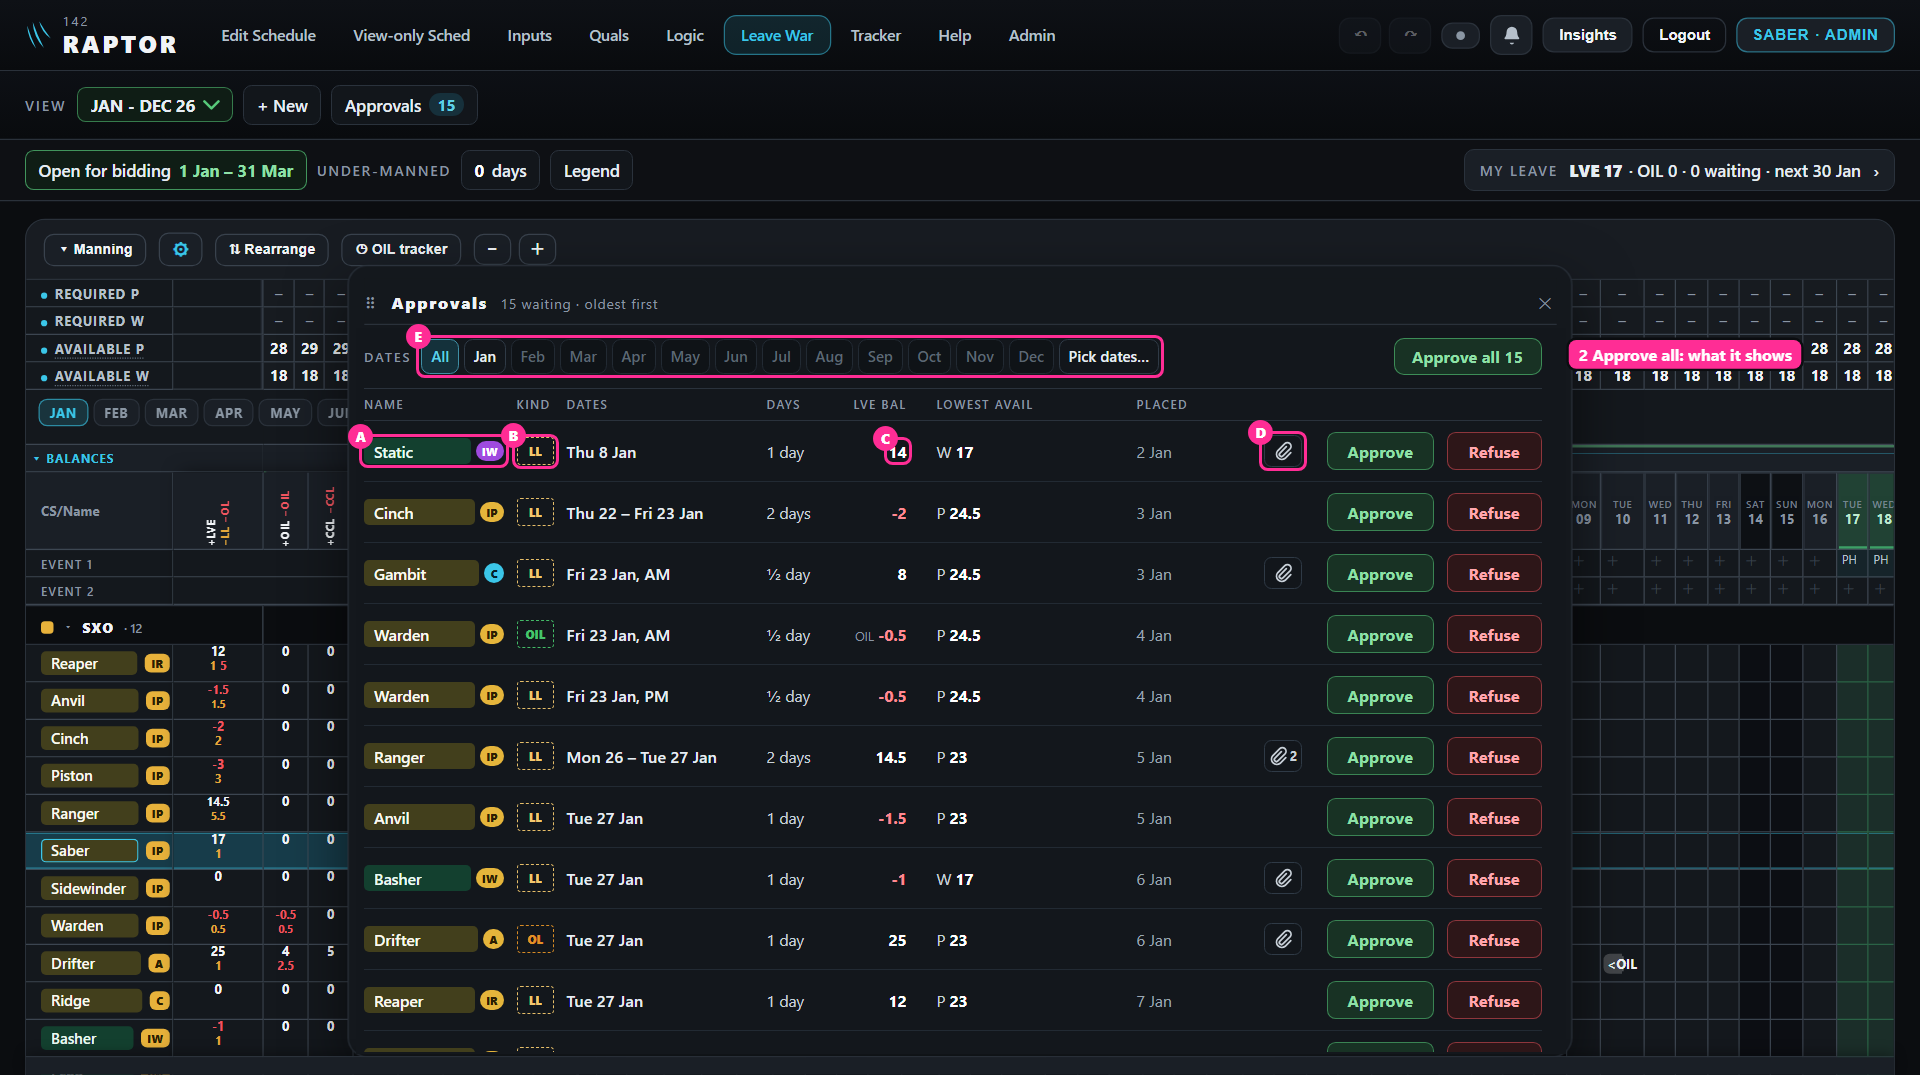
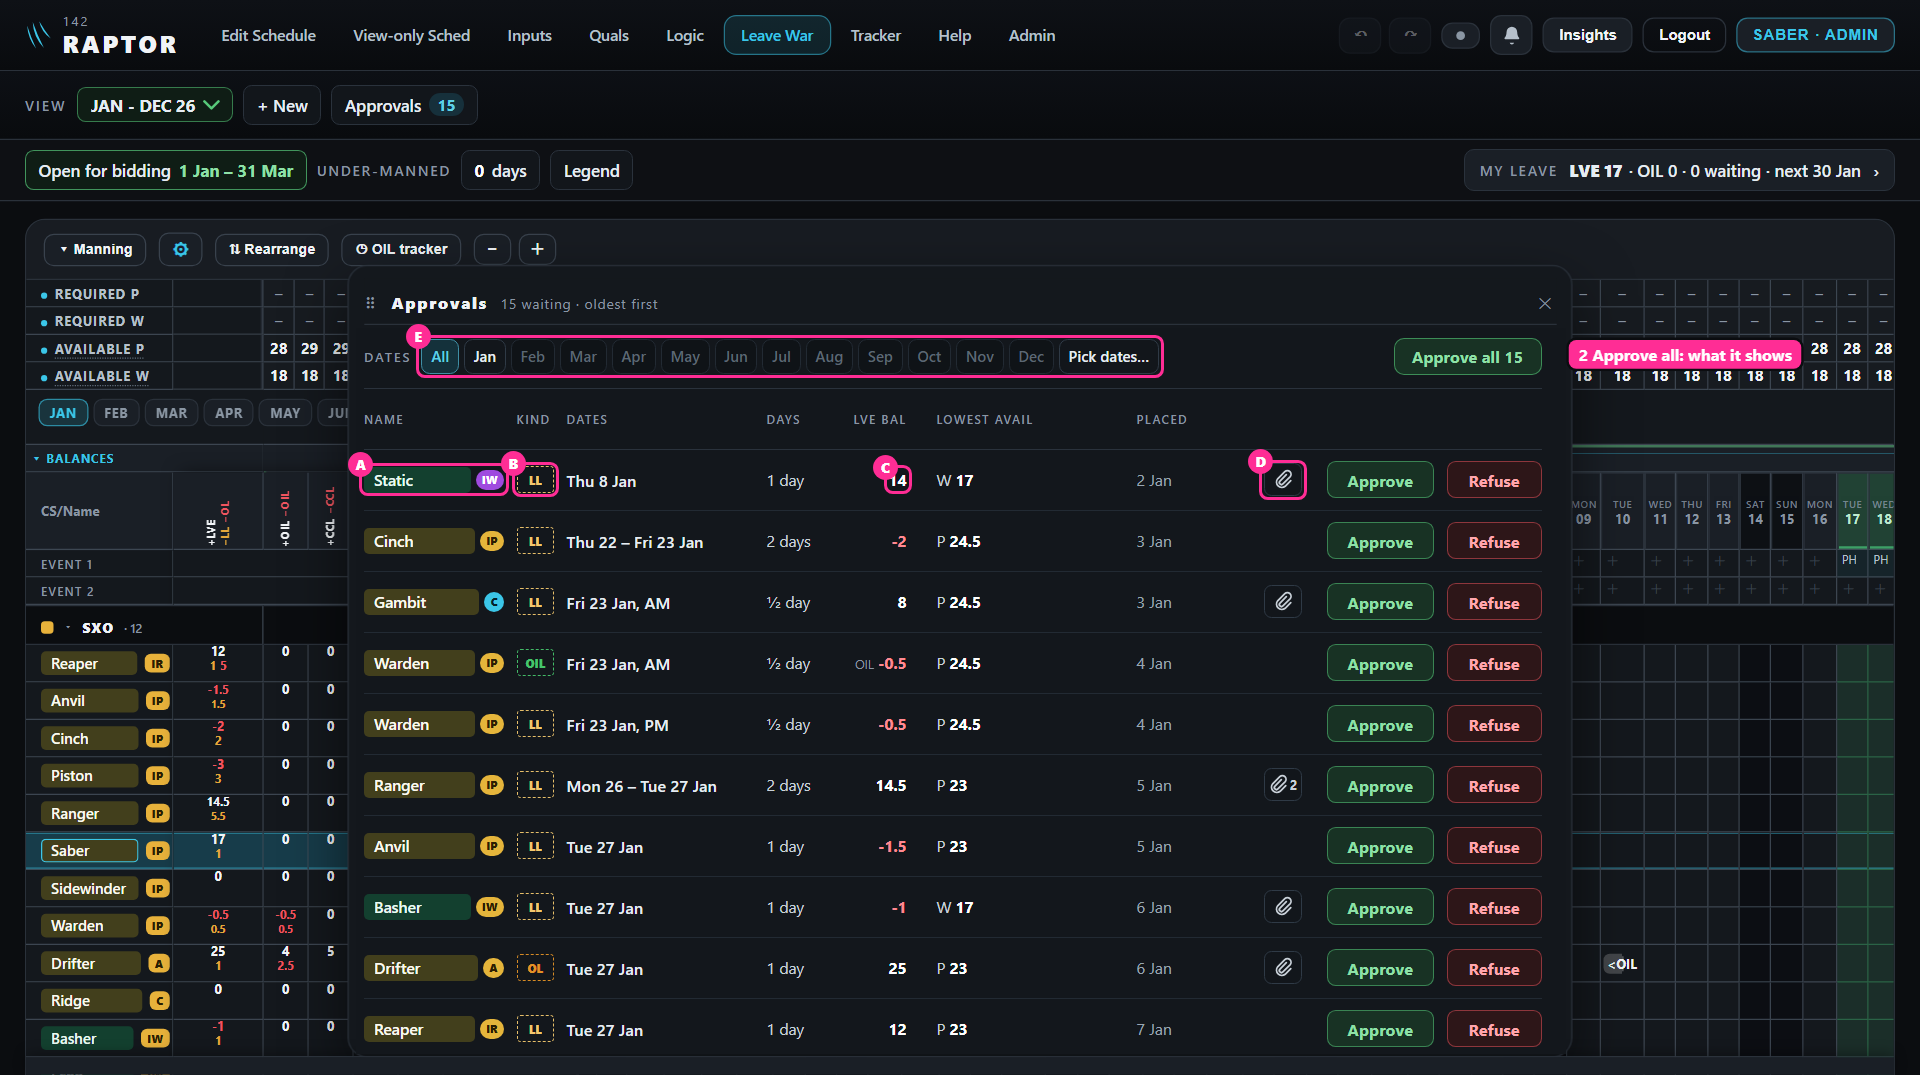
Leave War overhaul: every amber or red Manning row stacked in Lowest Avail (D1192) and the Required / Available pairs tinted (D1194) drawn; the page's version 28; the handoff rewritten at a clean point

diff --git a/raptor-port/docs/mock/lw-overhaul/full-page.html b/raptor-port/docs/mock/lw-overhaul/full-page.html
@@ -121,7 +121,8 @@ a{color:var(--accent)}
       <p><b>Your points, drawn:</b> each request shows the person's own puck (pilot or WSO by colour, his CAT, a SANS man's purple edge) and its kind as the grid's coloured box; "LVE Bal" in place of "LVE after"; a document icon where one is attached, tap to review it; the dates are every month of the period you are viewing (Jan to Dec), months with nothing waiting greyed. And on the Inputs page the type filter can pick "All leave" or "All medical", so one list shows who has not attached his document.</p>
       <p class="note"><b>Your question: is "lowest Avail P" taken at the time he applied, and are they in order of application?</b> It is live, not frozen: the lowest figure on that request's days as the grid stands now. Every request not refused is already counted (a request lowers manning the moment it is placed), so it shows the day as it would be if everything waiting were approved. Approving changes nothing; refusing gives the man back. One correction to my first drawing: a WSO's request now shows "lowest Avail W", since, as the rows stand, it never moves Avail P. A SANS man is never counted in Avail P or W (he offers his days on the SANS calendar), so his request moves neither: I recommend his line shows "SANS · not in Avail" in place of a figure. On the order: my first drawing ran by leave date even though it said "oldest first". I recommend oldest request first, the order they applied. The app does not record when a request was made yet; the overhaul adds that ("placed by Static, 2 Jan").</p>
       <p class="note"><b>Your question: will the lowest Avail P or W show amber or red, and if you rename the row, does the line follow?</b> <b>With your answers:</b> Avail P and W get an amber point, set in the row's own window as a number plus or minus that day's Required, "+ 2" for example: amber when fewer than Required + 2 are available. I've drawn red beside it as the same kind of setting, "+ 0" by default, which is today's rule (red when under Required). That way amber always comes before red; a minus amber would otherwise never show. Keep red fixed if you prefer. The line's figure wears the same colour (A red, B amber in the picture). Your Manning rows, such as IP or SXO, keep their own amber and red; where one is amber or red on the request's days, the line names it (D). Renaming follows: the line uses the row's own name and counts whoever the row counts (C).</p>
-      <div class="shots"><figure class="wide"><img src="full/r4b-availp-amber.png" alt="The Available P window with amber and red"><figcaption><span class="k n">Available P's window</span> · A amber: under Required + 2 · B red: under Required + 0, today's rule</figcaption></figure><figure class="wide"><img src="full/r4b-desk-approvals-colours.png" alt="The line's colours"><figcaption><span class="k n">The colours</span> · A red · B amber · C a renamed row · D an amber Manning row named (sample figures)</figcaption></figure></div>
+      <div class="shots"><figure class="wide"><img src="full/r4b-availp-amber.png" alt="The Available P window with amber and red"><figcaption><span class="k n">Available P's window</span> · A amber: under Required + 2 · B red: under Required + 0, today's rule</figcaption></figure><figure class="wide"><img src="full/r4b-desk-approvals-colours.png" alt="The line's colours"><figcaption><span class="k n">The colours</span> · A red · B amber · C a renamed row · D every Manning row it turns amber or red, one a line (sample figures)</figcaption></figure><figure class="wide"><img src="full/r4b-desk-pairs.png" alt="The pairs tinted, desktop"><figcaption><span class="k n">Your tint</span> · Required P and Available P olive, Required W and Available W green: the seat colours, faint</figcaption></figure><figure><img src="full/r4b-phone-pairs.png" alt="The pairs tinted, phone"><figcaption><span class="k n">Phone</span></figcaption></figure></div>
+      <p class="note"><b>Also recorded from your messages:</b> every Manning row a request turns amber or red shows in Lowest Avail, one a line (D). Required P and W can be renamed too, like the Available rows; only the name, their figures are still typed in their cells.</p>
       <ul class="opts">
         <li class="rec"><b>A · no quick-approve switch; the list's dates choose a period, and "Approve all" approves what it shows; each line coloured as above</b><span class="rec-pill">recommended</span><br>That is "approve all for a selected period". The grid's drag-select stays. A switch that makes a tap approve is easy to leave on, and then a tap meant to open a cell approves it.</li>
         <li><b>B · add the quick-approve switch</b> as well.</li>

diff --git a/HANDOFF.md b/HANDOFF.md
@@ -21,17 +21,17 @@ the later merge keeps both (D78).
 
 ## Now
 <!-- now:claude/leave-war-overhaul -->
-### 21 Oct 26 — the Leave War overhaul, rounds 2 to 4 of the full mock-up (D1140), `claude/leave-war-overhaul` (pushed, no pull request) — round 4 put and half answered (8 = A); 9 answered (D1186 on by default, D1187 title bar); waiting for 7 and 10; nothing built
-- **The page:** https://claude.ai/artifact/6xaVkA1QHg7UmevMBRFaT9 (version 22; source `raptor-port/docs/mock/lw-overhaul/full-page.html`, pictures `…/full/`). Static drawings (no app build needed; run from `raptor-port` with `NODE_PATH=C:/Users/User/projects/Raptor/raptor-port/node_modules` and `LWMOCK_OUT=<scratchpad>`, then copy the chosen pictures from `<scratchpad>/out` into `full/`): `full-cells2/3/4.mjs` (cells), `full-q5*.mjs` (question 5), and **`full-r4.mjs`** (round 4: the top redrawn over the round-2 pictures — the open-dates chip where the stages were, "View", no "Viewing as"; question 10 both ways; question 9's window with the Document button; pictures `full/r4-*.png`) and **`full-r4b.mjs`** (his round-4 points: Approvals with the puck, coloured box, LVE Bal, document icon and the period's months; the bid window with coloured leave buttons and the tick placed two ways; the Inputs list on "All leave" with "No document"; Balances as a button — pictures `full/r4b-*.png`). Edit scripts with a script file, never node -e or a heredoc with \ or ${…}.
+### 21 Oct 26 — the Leave War overhaul, rounds 2 to 4 of the full mock-up (D1140), `claude/leave-war-overhaul` (pushed, no pull request) — round 4: 8 and 9 answered, 7 and 10 waiting; nothing built
+- **The page:** https://claude.ai/artifact/6xaVkA1QHg7UmevMBRFaT9 (version 28; source `raptor-port/docs/mock/lw-overhaul/full-page.html`, pictures `…/full/`). Static drawings over the app's real pictures (no app build needed; run from `raptor-port` with `NODE_PATH=C:/Users/User/projects/Raptor/raptor-port/node_modules` and `LWMOCK_OUT=<scratchpad>`, then copy the chosen pictures from `<scratchpad>/out` into `full/`): `full-cells2/3/4.mjs`, `full-q5*.mjs`, **`full-r4.mjs`** (the top row redrawn: open-dates chip, "View", no "Viewing as"; question 10 both ways, Approvals beside "+ New" / "+" on both — D1188; pictures `full/r4-*.png`) and **`full-r4b.mjs`** (Approvals in columns with puck, coloured box, LVE Bal, lowest Avail, placed, document; its colours; the bid window with coloured buttons and the tick in the title bar; the Inputs list on "All leave"; Balances as a button; the Available P window's amber / red settings; the Required / Available pairs tinted — pictures `full/r4b-*.png`; regenerate `full-r4.mjs` first, `full-r4b.mjs` reads its pictures). Edit scripts with a script file or the Edit tool, never node -e or a heredoc holding \\ or ${…}.
 - **His rulings this chat (all homed in the note's §5, D201 sweeps done):** D1157 year grid stays · D1158 Ack goes (narrows D331) · D1159 the one Document button (lesson 20) · D1160 rows keep their height, a whole day fills its cell, a half its half (narrows D1145; lesson 19) · D1161 all-green is boring (lesson 21; answered by D1165) · D1162 OD = overseas duty · D1163 Gryphon's SC not taken · D1164 HO drawn in a half (narrows D1160) · D1165 Q2 = E, a colour per kind of leave, his colours to confirm (LL / OL two ambers, OIL green; course lilac) · D1166 Q6 = B in his words: locks stop only bidding on the war, the Inputs page is never locked, after closing a member edits his leave there after verbal approval (narrows D1156; P6 struck) · D1167 4b = A, two whole-day entries side by side (narrows D1146; he chose it over the agent's C — three letters cramped on a phone, to check at the build) · D1177 Q5 = open: the stages go, the "Open for bidding" window the one switch (replaces D1156; narrows D1166, D418, D333, D352, D827, D679, D1141, D413) · D1176 the closed note says "seek management's approval" · D1175 Q2 confirmed: look F as drawn · D1173 the "Viewing as" chip goes (replaces D365, narrows D678) · D1174 the period picker labelled "View", phone too · D1172 a calendar icon on each open stretch, not a pencil (D1170–D1171 belong to another branch) · D1169 hold and drag across the month buttons opens every month passed over · D1168 the "Open for bidding" window gets month quick-buttons, a tap opens or closes a whole month, exact days behind the pencil (lesson 22). Fresh Opus reads: lessons 19–21 and their lines read and fixed; lesson 22 and D1167–D1168 read too, its marks taken (closing a month by a second tap, and the buttons inside the window, marked as the agent's readings). **Owed:** one fresh Opus read of the short lines and full rows of D1169, D1172–D1177 and the narrowed lines of D418, D333, D352, D827, D679, D1141, D1166, D413 (D138, D941 — no new lesson among them).
-- **The owed fresh Opus read is DONE (21 Oct 26)** — the short lines and full rows of D1169, D1172–D1177 and the narrowed D418, D333, D352, D827, D679, D1141, D1166, D413; its 11 marks taken (commit "the fresh Opus read of round 3's rulings"): D678 and D679 narrowed by D1177 (D679 by D1173, D1174 too); D1173's reason corrected (on a phone the name badge is hidden — the menu's "Signed in as" line; told to him on the page); D1141 marked by D1173; D418 with no published war; D413 ends "the admin texts the squadron"; D1176's trigger (any day not open) marked as the agent's; D1168, D1166, D333, D352 restated; D1177's readings gain the moved mark and remarks at any time; the two §Settled entries that read the stage marked.
-- **His round-4 rulings so far (21 Oct 26, all homed in the note's §5; a fresh Opus read of D1178–D1182 taken — the Avail P answer corrected: each line shows the requester's own seat's figure, and the list's order is oldest request first once "when placed" is stored):** D1178 a document icon on an Approvals line · D1179 the Inputs filter picks a whole family (all leave, all medical) — "No document" recommended with it · D1180 Approvals shows the person's puck and the kind's coloured box (lesson 23) · D1181 "LVE Bal" · D1182 "Approve what I enter" placed in line (lesson 24) · D1183 the bid windows' leave buttons in look F's colours · D1184 the Approvals dates cover the whole period on view · D1185 question 8 = A, Balances drawn as a button (lesson 25). **A second fresh Opus read (D1182 as revised, D1183–D1185, lessons 24–25, the page's Avail P answer) is DONE, its five marks taken (a SANS man's line: "SANS · not in Avail", recommended on the page). A third read (D1186, D1187) DONE, its four marks taken. A fresh read of D1188–D1191 and lessons 26–27 was started at the end of this chat — if its marks are not in the commits, run it again.**
-- **Round 4 PUT (page version 21; redrawn versions 22–26), 9 answered (D1186, D1187), 10 redrawn per D1188 (Approvals beside "+ New" / "+" on both); version 27: the Approvals list in columns (D1189), the Available rows' amber and red settings drawn (D1190, D1191 — red as a setting is the agent's proposal, his to confirm), waiting for his answers to 7 and 10:** Q7 approve all for a period (A: no quick switch, the Approvals dates filter + "Approve all" approves what it shows), Q8 Balances (A: the drawer renamed, no second list), Q9 "Approve what I enter" (A: off each time), **Q10 re-cut after D1177: where Approvals opens** (A: where "Viewing as" was, the top line after "+ New", desktop and phone — recommended; B: beside the open dates — on a phone the line overflows and Legend leaves the screen). Note §9.3 and §5 say so.
-- **Next:** record each answer as a ruling **from D1189** (this branch now takes D1190–D1199, checked 21 Oct 26) (this branch takes **D1178–D1189**; D1178–D1187 used — check for D1190 and up before going past D1189), home in the note's §5, D201 sweep; then put round 5 — Q11 the day panel stacked (its "locked day's reason" now "a day not open for bidding says so on its first line"), Q12 Management, then the readings and P1–P5, P7 to strike (P3 reworded for closed dates) — then the build plan.
+- **His round-4 rulings (21 Oct 26, all homed in the note's §5; D201 sweeps done):** D1178 a document icon on an Approvals line · D1179 the Inputs filter picks a whole family (all leave, all medical; "No document" recommended) · D1180 Approvals shows the person's puck and the kind's coloured box (lesson 23) · D1181 "LVE Bal" · D1182 "Approve what I enter" out of its odd place (lesson 24) · D1183 the bid windows' leave buttons in look F's colours · D1184 the Approvals dates cover the whole period on view · D1185 Q8 = A, Balances drawn as a button (lesson 25) · D1186 Q9b: the tick on by default (his choice over the agent's "off") · D1187 Q9a = B: the tick in the title bar · D1188 a button in the same place on a phone and a desktop (lesson 26) · D1189 the Approvals figures in aligned columns (lesson 27) · D1190 Available P / W get an amber point in a setting (narrows D640) · D1191 that amber point is a number plus or minus the day's Required · D1192 every Manning row a request turns amber or red shows in Lowest Avail, one a line · D1193 Required P / W may be renamed (narrows D668) · D1194 the Required / Available pairs faintly tinted, pilots olive, WSOs green (lesson 28). **Fresh Opus reads done and their marks taken:** round 3's rulings; D1178–D1182; D1182–D1185; D1186–D1187; D1188–D1191 (+2 means "one or none to spare"). **Owed:** one fresh read of D1192–D1194's short lines and full rows and lesson 28 (D138, D941).
+- **His questions answered on the page (not rulings):** "lowest Avail" is live, not frozen — every request not refused already counts; each line shows the requester's own seat (Avail P / Avail W), a SANS man's line "SANS · not in Avail" (recommended); the list oldest request first once "when placed" is stored; the line follows a renamed row.
+- **Waiting for him (round 4):** **Q7** (A recommended: no quick-approve switch; the dates choose a period and Approve all approves what the list shows; each line coloured — red under Required, amber per his setting, Manning rows named), **Q10** (A recommended: Approvals right after "+ New" / "+" on both; B beside the open dates — overflows on a phone), and **red as a setting** beside amber ("Required + 0" by default, today's rule — the agent's proposal, needed so a minus amber can show before red; or red stays fixed).
+- **Next:** record his answers from **D1195** (this branch takes **D1190–D1199**, checked 21 Oct 26: nothing above D1189 on any branch), homes in the note's §5, D201 sweep, a fresh read; then put round 5 — Q11 the day panel stacked ("a day not open for bidding says so on its first line"), Q12 Management, then the readings and P1–P5, P7 to strike (P3 reworded for closed dates) — then the build plan (the note's §6, kept up to date with every ruling).
 - **His question "after bidding closes, what do members see?"** answered and drawn (step 6 of `full-q5-flow.mjs`, `full/p5-flow6.png`): the chip reads "Bidding closed"; the grid shows as normal, nothing dimmed; a tap on a day to bid says "Bidding is closed. To change your leave, seek management's approval, then file it on the Inputs page" (his words, D1176); his own approved leave still opens its remarks and documents — the agent's design, not yet ruled; goes with his Q5 answer.
 - **His question "do we show that the last open stretch closed?"** answered: not on the grid (clutter); a tap on "Bidding closed" shows "Last open 1 Apr – 30 Jun · closed by Saber, 15 Mar", and the bell tells members — proposed as P7 in the notifications register, his to strike; neither ruled yet.
-- **Not redrawn:** the other window pictures still show the drawn paper clip (question 9's now has the Document button); the build uses the Document button (D1159).
-- **Known:** the document check's size tripwires on shipping.md and How we work's rulings are main's (fixed by pull request 563, merged); this branch has not merged main.
+- **Not redrawn:** the other window pictures still show the drawn paper clip (question 9's has the Document button); the overview pictures' Balances heading is the faint label (question 8's pictures show the button); the build uses the rulings.
+- **Known:** the document check's size tripwires on shipping.md and How we work's rulings are main's (fixed by pull request 563, merged); this branch has not merged main. The design checker flags the page's tap-to-enlarge picture (empty until tapped) — ignored for that file, by design.
 <!-- /now -->
 <!-- now:claude/board-side-width -->
 ### 21 Oct 26 — the right panel, [ARROWS-STAY-PUT], the font fix and round 1 of the consistency look, `claude/board-side-width`, pull request 562 — his "merge live" GIVEN (21 Oct 26), merging
